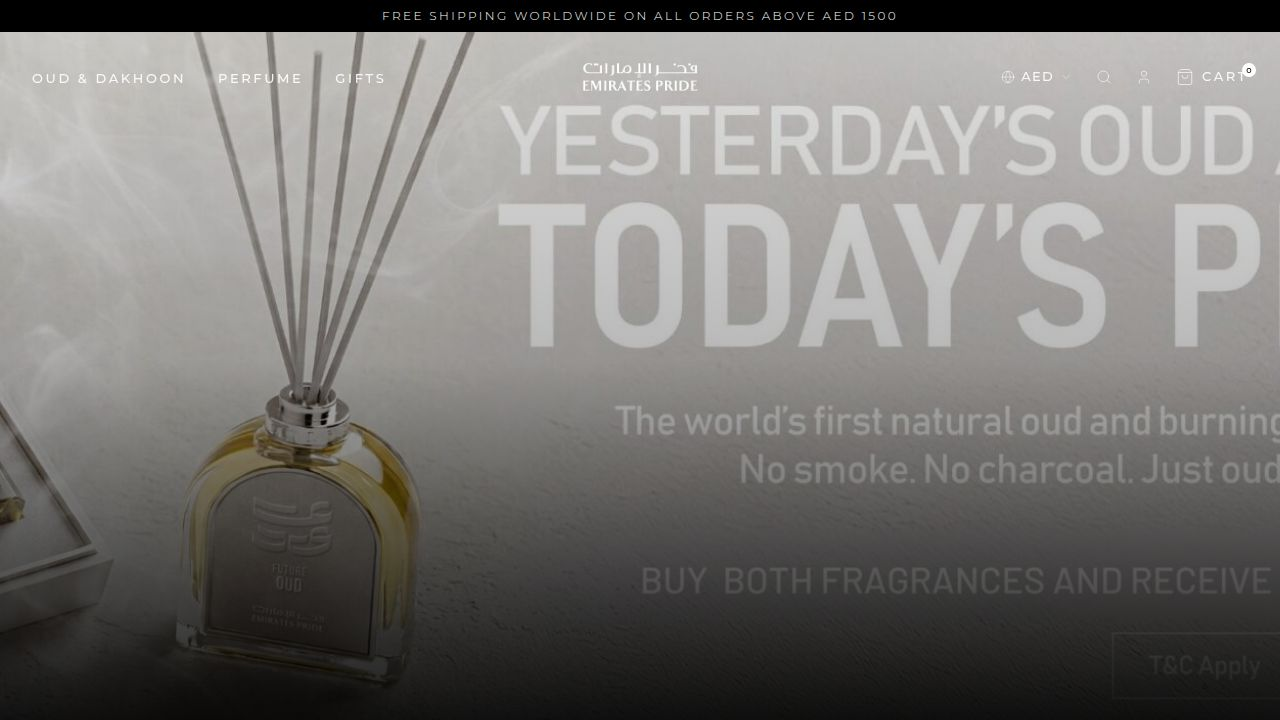
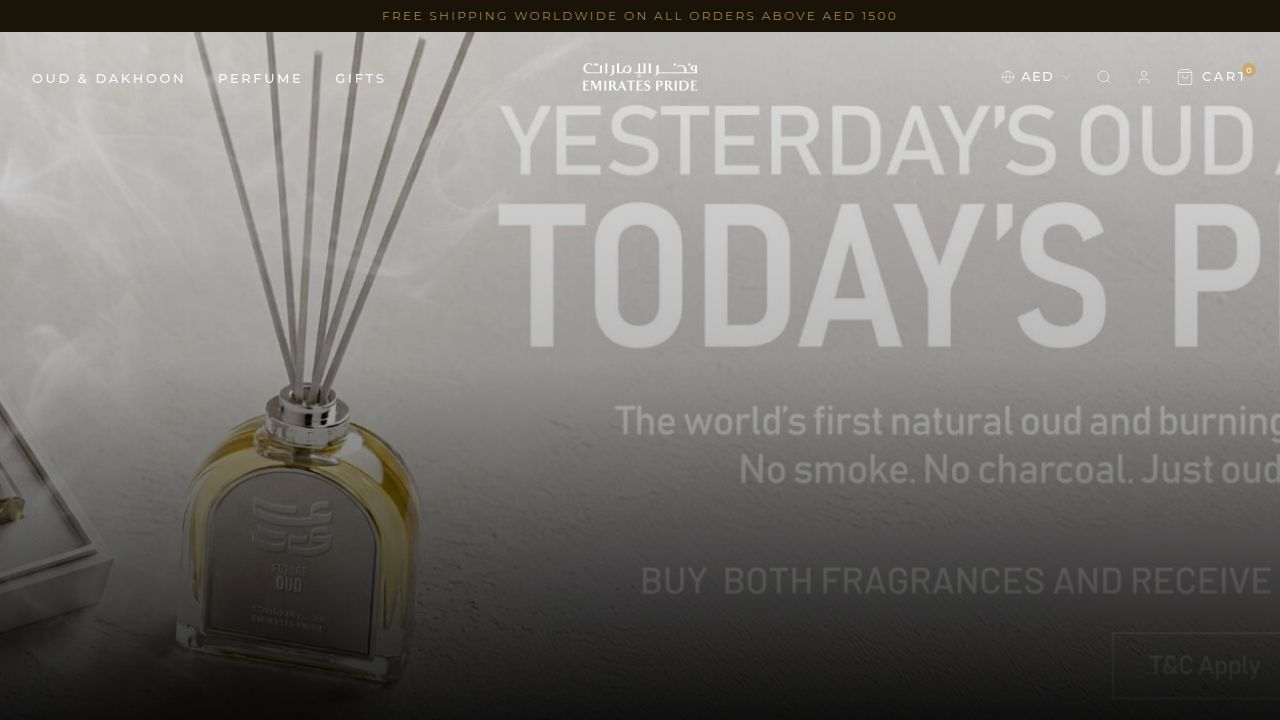
Improve website spacing and padding for a better user experience
Refactors various components and pages to implement a consistent and adaptive spacing and padding system, utilizing Tailwind CSS utility classes for responsive design across all breakpoints.

Replit-Commit-Author: Agent
Replit-Commit-Session-Id: e337e7fa-01bf-4b65-ac23-c47a7b0923ea
Replit-Commit-Checkpoint-Type: full_checkpoint
Replit-Commit-Event-Id: f3d3aa6d-13ac-416a-baf6-04ac2c54afa9
Replit-Commit-Screenshot-Url: https://storage.googleapis.com/screenshot-production-us-central1/232ab10a-71f6-4c69-b0e7-b32ffa81f37e/e337e7fa-01bf-4b65-ac23-c47a7b0923ea/bKBORlj
Replit-Helium-Checkpoint-Created: true

Changed region(s): [[0.0, 0.0, 1.0, 0.0611], [0.9688, 0.0917, 1.0, 0.1222]]

diff --git a/client/src/pages/Home.tsx b/client/src/pages/Home.tsx
@@ -121,7 +121,7 @@ export default function Home() {
       <Navbar />
 
       <main className="flex-1">
-        <section ref={heroRef} className="relative h-[85vh] md:h-screen w-full flex flex-col justify-end pb-16 md:pb-32 px-4 md:px-8 overflow-hidden bg-black">
+        <section ref={heroRef} className="relative h-[85vh] md:h-screen w-full flex flex-col justify-end pb-12 md:pb-24 lg:pb-32 px-5 md:px-10 lg:px-20 xl:px-28 overflow-hidden bg-black">
           <div className="absolute inset-0 w-full h-full">
             <img 
               src="https://emiratespride.com/wp-content/uploads/2026/02/Desktop-Banner-ENG-scaled.jpg" 
@@ -134,69 +134,70 @@ export default function Home() {
           
         </section>
 
-        <section ref={galleryRef} className="py-6 md:py-12 bg-[#fafafa] px-4 md:px-8 lg:px-16">
-          <div className="text-center mb-6 md:mb-10">
-            <h2 className="text-[9px] md:text-[10px] font-medium tracking-[0.3em] uppercase text-[#c9a96e] mb-2">Explore</h2>
-            <h3 className="text-2xl md:text-4xl font-serif">A World of Fragrance</h3>
+        <section ref={galleryRef} className="py-10 md:py-16 lg:py-24 bg-[#fafafa] px-5 md:px-10 lg:px-20 xl:px-28">
+          <div className="text-center mb-8 md:mb-14">
+            <h2 className="text-[9px] md:text-[10px] font-medium tracking-[0.3em] uppercase text-[#c9a96e] mb-3">Explore</h2>
+            <h3 className="text-2xl md:text-4xl lg:text-5xl font-serif">A World of Fragrance</h3>
           </div>
           
-          <div className="grid grid-cols-1 md:grid-cols-3 gap-4 md:gap-6">
+          <div className="grid grid-cols-1 md:grid-cols-3 gap-3 md:gap-4 lg:gap-6">
             <Link href="/collection">
-              <div className="gallery-item group relative aspect-[4/5] md:aspect-[3/4] overflow-hidden bg-muted cursor-pointer mb-4 md:mb-0">
+              <div className="gallery-item group relative aspect-[4/5] md:aspect-[3/4] overflow-hidden bg-muted cursor-pointer mb-3 md:mb-0">
                 <img src={categories[0].image} className="w-full h-full object-cover transition-transform duration-[2s] ease-out group-hover:scale-110" alt="Oud" />
                 <div className="absolute inset-0 bg-black/20 group-hover:bg-black/40 transition-colors duration-700"></div>
-                <div className="absolute bottom-6 md:bottom-8 left-6 md:left-8">
-                  <h3 className="text-white font-serif text-2xl md:text-3xl lg:text-4xl mb-2">{categories[0].name}</h3>
+                <div className="absolute bottom-5 md:bottom-8 lg:bottom-10 left-5 md:left-8 lg:left-10">
+                  <h3 className="text-white font-serif text-xl md:text-3xl lg:text-4xl mb-2">{categories[0].name}</h3>
                   <div className="w-0 h-[1px] bg-[#c9a96e] group-hover:w-full transition-all duration-700 ease-out"></div>
                 </div>
               </div>
             </Link>
             
             <Link href="/collection">
-              <div className="gallery-item group relative aspect-[4/5] md:aspect-[3/4] overflow-hidden bg-muted cursor-pointer md:translate-y-12 mb-4 md:mb-0">
+              <div className="gallery-item group relative aspect-[4/5] md:aspect-[3/4] overflow-hidden bg-muted cursor-pointer md:translate-y-8 lg:translate-y-14 mb-3 md:mb-0">
                 <img src={categories[4].image} className="w-full h-full object-cover transition-transform duration-[2s] ease-out group-hover:scale-110" alt="Gifts" />
                 <div className="absolute inset-0 bg-black/20 group-hover:bg-black/40 transition-colors duration-700"></div>
-                <div className="absolute bottom-6 md:bottom-8 left-6 md:left-8">
-                  <h3 className="text-white font-serif text-2xl md:text-3xl lg:text-4xl mb-2">{categories[4].name}</h3>
+                <div className="absolute bottom-5 md:bottom-8 lg:bottom-10 left-5 md:left-8 lg:left-10">
+                  <h3 className="text-white font-serif text-xl md:text-3xl lg:text-4xl mb-2">{categories[4].name}</h3>
                   <div className="w-0 h-[1px] bg-[#c9a96e] group-hover:w-full transition-all duration-700 ease-out"></div>
                 </div>
               </div>
             </Link>
             
             <Link href="/collection">
-              <div className="gallery-item group relative aspect-[4/5] md:aspect-[3/4] overflow-hidden bg-muted cursor-pointer md:translate-y-24">
+              <div className="gallery-item group relative aspect-[4/5] md:aspect-[3/4] overflow-hidden bg-muted cursor-pointer md:translate-y-16 lg:translate-y-28">
                 <img src={categories[1].image} className="w-full h-full object-cover transition-transform duration-[2s] ease-out group-hover:scale-110" alt="Oils" />
                 <div className="absolute inset-0 bg-black/20 group-hover:bg-black/40 transition-colors duration-700"></div>
-                <div className="absolute bottom-6 md:bottom-8 left-6 md:left-8">
-                  <h3 className="text-white font-serif text-2xl md:text-3xl lg:text-4xl mb-2">{categories[1].name}</h3>
+                <div className="absolute bottom-5 md:bottom-8 lg:bottom-10 left-5 md:left-8 lg:left-10">
+                  <h3 className="text-white font-serif text-xl md:text-3xl lg:text-4xl mb-2">{categories[1].name}</h3>
                   <div className="w-0 h-[1px] bg-[#c9a96e] group-hover:w-full transition-all duration-700 ease-out"></div>
                 </div>
               </div>
             </Link>
           </div>
+          <div className="hidden md:block h-8 lg:h-16"></div>
         </section>
 
         <section ref={pinnedSectionRef} className="relative w-full bg-[#fcfcfc] flex flex-col md:flex-row">
-          <div className="w-full md:w-1/2 md:h-screen md:sticky top-0 pinned-content flex flex-col justify-center items-center md:items-start text-center md:text-left p-8 md:p-16 lg:p-24 z-10 relative bg-cover bg-center" style={{ backgroundImage: "url('https://emiratespride.com/wp-content/uploads/2026/01/Mostakbal-Lifestyle-scaled-1-1200x1490.webp')" }}>
+          <div className="w-full md:w-1/2 md:h-screen md:sticky top-0 pinned-content flex flex-col justify-center items-center md:items-start text-center md:text-left p-8 md:p-14 lg:p-20 xl:p-28 z-10 relative bg-cover bg-center" style={{ backgroundImage: "url('https://emiratespride.com/wp-content/uploads/2026/01/Mostakbal-Lifestyle-scaled-1-1200x1490.webp')" }}>
             <div className="absolute inset-0 bg-black/50"></div>
-            <span className="relative z-10 text-[9px] md:text-[10px] font-medium tracking-[0.3em] uppercase text-[#c9a96e] mb-4 md:mb-6 md:border-l md:border-[#c9a96e]/50 md:pl-4">Signature Blend</span>
-            <h2 className="relative z-10 text-3xl md:text-5xl lg:text-6xl font-serif mb-4 md:mb-6 leading-tight text-white">{featureProduct2.name}</h2>
-            <p className="relative z-10 text-white/70 text-sm leading-relaxed mb-8 md:mb-10 max-w-md font-light">
+            <span className="relative z-10 text-[9px] md:text-[10px] font-medium tracking-[0.3em] uppercase text-[#c9a96e] mb-3 md:mb-5 lg:mb-7 md:border-l md:border-[#c9a96e]/50 md:pl-4">Signature Blend</span>
+            <h2 className="relative z-10 text-3xl md:text-5xl lg:text-6xl xl:text-7xl font-serif mb-3 md:mb-5 lg:mb-7 leading-tight text-white">{featureProduct2.name}</h2>
+            <p className="relative z-10 text-white/70 text-xs md:text-sm lg:text-base leading-relaxed mb-6 md:mb-8 lg:mb-12 max-w-md font-light">
               A captivating journey into darkness. Discover a scent tailored to your most elegant moments, blending the finest leather accords with mysterious depths.
             </p>
             <Link href={`/product/${featureProduct2.id}`}>
-              <span className="relative z-10 inline-block bg-[#c9a96e] text-white px-8 py-3.5 md:py-4 text-[9px] md:text-[10px] font-medium tracking-[0.2em] uppercase hover:bg-[#b8954f] transition-colors cursor-pointer">
+              <span className="relative z-10 inline-block bg-[#c9a96e] text-white px-6 md:px-8 lg:px-10 py-3 md:py-3.5 lg:py-4 text-[9px] md:text-[10px] font-medium tracking-[0.2em] uppercase hover:bg-[#b8954f] transition-colors cursor-pointer">
                 Discover The Scent
               </span>
             </Link>
           </div>
           
           <div className="w-full md:w-1/2 flex flex-col scrolling-images relative bg-white">
-            <div className="grid grid-cols-2 gap-3 md:gap-6 p-4 md:p-8">
+            <div className="grid grid-cols-2 gap-3 md:gap-4 lg:gap-6 p-4 md:p-6 lg:p-10">
               {products.slice(0, 4).map((product) => (
                 <div key={product.id} className="group flex flex-col cursor-pointer" data-testid={`card-scroll-product-${product.id}`}>
                   <Link href={`/product/${product.id}`}>
-                    <div className="relative aspect-[3/5] mb-3 overflow-hidden bg-[#f5f5f5]">
+                    <div className="relative aspect-[3/5] mb-2 md:mb-3 overflow-hidden bg-[#f5f5f5]">
                       <img 
                         src={product.image} 
                         alt={product.name} 
@@ -212,19 +213,19 @@ export default function Home() {
                   </Link>
                   <div className="flex flex-col items-center text-center px-1">
                     <Link href={`/product/${product.id}`}>
-                      <span className="text-sm md:text-base font-serif mb-1 text-black hover:text-black/60 transition-colors cursor-pointer">{product.name}</span>
+                      <span className="text-xs md:text-sm lg:text-base font-serif mb-1 text-black hover:text-black/60 transition-colors cursor-pointer">{product.name}</span>
                     </Link>
-                    <span className="text-[7px] md:text-[8px] tracking-[0.2em] uppercase text-black/40 mb-1">{product.collection}</span>
-                    <p className="text-[10px] md:text-xs font-medium text-black">{product.currency} {product.price}</p>
+                    <span className="text-[6px] md:text-[7px] lg:text-[8px] tracking-[0.2em] uppercase text-black/40 mb-1">{product.collection}</span>
+                    <p className="text-[9px] md:text-[10px] lg:text-xs font-medium text-black">{product.currency} {product.price}</p>
                   </div>
                 </div>
               ))}
             </div>
-            <div className="grid grid-cols-2 gap-3 md:gap-6 p-4 md:p-8 pt-0 md:pt-0">
+            <div className="grid grid-cols-2 gap-3 md:gap-4 lg:gap-6 p-4 md:p-6 lg:p-10 pt-0 md:pt-0 lg:pt-0">
               {products.slice(3, 7).map((product) => (
                 <div key={product.id} className="group flex flex-col cursor-pointer" data-testid={`card-scroll-product-${product.id}`}>
                   <Link href={`/product/${product.id}`}>
-                    <div className="relative aspect-[3/5] mb-3 overflow-hidden bg-[#f5f5f5]">
+                    <div className="relative aspect-[3/5] mb-2 md:mb-3 overflow-hidden bg-[#f5f5f5]">
                       <img 
                         src={product.image} 
                         alt={product.name} 
@@ -240,10 +241,10 @@ export default function Home() {
                   </Link>
                   <div className="flex flex-col items-center text-center px-1">
                     <Link href={`/product/${product.id}`}>
-                      <span className="text-sm md:text-base font-serif mb-1 text-black hover:text-black/60 transition-colors cursor-pointer">{product.name}</span>
+                      <span className="text-xs md:text-sm lg:text-base font-serif mb-1 text-black hover:text-black/60 transition-colors cursor-pointer">{product.name}</span>
                     </Link>
-                    <span className="text-[7px] md:text-[8px] tracking-[0.2em] uppercase text-black/40 mb-1">{product.collection}</span>
-                    <p className="text-[10px] md:text-xs font-medium text-black">{product.currency} {product.price}</p>
+                    <span className="text-[6px] md:text-[7px] lg:text-[8px] tracking-[0.2em] uppercase text-black/40 mb-1">{product.collection}</span>
+                    <p className="text-[9px] md:text-[10px] lg:text-xs font-medium text-black">{product.currency} {product.price}</p>
                   </div>
                 </div>
               ))}
@@ -251,11 +252,11 @@ export default function Home() {
           </div>
         </section>
 
-        <section className="py-6 md:py-10 px-4 md:px-8 lg:px-16 bg-white overflow-hidden">
-          <div className="flex flex-col md:flex-row justify-between items-center md:items-end mb-4 md:mb-8 border-b border-black/10 pb-3 md:pb-5 text-center md:text-left">
+        <section className="py-10 md:py-16 lg:py-24 px-5 md:px-10 lg:px-20 xl:px-28 bg-white overflow-hidden">
+          <div className="flex flex-col md:flex-row justify-between items-center md:items-end mb-6 md:mb-10 lg:mb-14 border-b border-black/10 pb-4 md:pb-6 text-center md:text-left">
             <div>
               <h2 className="text-[9px] md:text-[10px] font-medium tracking-[0.3em] uppercase text-[#c9a96e] mb-2 md:mb-3">Masterpieces</h2>
-              <h3 className="text-2xl md:text-4xl font-serif text-black">New & Trending</h3>
+              <h3 className="text-2xl md:text-4xl lg:text-5xl font-serif text-black">New & Trending</h3>
             </div>
             <Link href="/collection">
               <span className="hidden md:inline-block text-[10px] font-medium tracking-[0.2em] uppercase hover:text-black/60 transition-colors cursor-pointer luxury-underline pb-1">
@@ -264,7 +265,7 @@ export default function Home() {
             </Link>
           </div>
 
-          <div className="grid grid-cols-2 md:grid-cols-4 gap-x-2 md:gap-x-4 gap-y-6 md:gap-y-10">
+          <div className="grid grid-cols-2 md:grid-cols-4 gap-x-3 md:gap-x-4 lg:gap-x-6 gap-y-6 md:gap-y-8 lg:gap-y-12">
             {newArrivals.map((product) => (
               <CreativeProductCard key={product.id} product={product} />
             ))}
@@ -279,7 +280,7 @@ export default function Home() {
           </div>
         </section>
 
-        <section ref={bloomBannerRef} className="relative w-full h-[50vh] md:h-[70vh] overflow-hidden">
+        <section ref={bloomBannerRef} className="relative w-full h-[40vh] md:h-[60vh] lg:h-[75vh] overflow-hidden">
           <img 
             src="https://emiratespride.com/ae/wp-content/uploads/sites/10/2025/10/BLOOM-AR-scaled.webp" 
             alt="Bloom Collection" 
@@ -288,7 +289,7 @@ export default function Home() {
           <div className="absolute inset-0 bg-black/20"></div>
         </section>
 
-        <section ref={brandRef} className="relative py-16 md:py-28 px-6 md:px-12 lg:px-20 bg-[#1a1308] overflow-hidden">
+        <section ref={brandRef} className="relative py-14 md:py-24 lg:py-32 px-5 md:px-10 lg:px-20 xl:px-28 bg-[#1a1308] overflow-hidden">
           <div className="absolute inset-0 opacity-[0.03]" style={{ backgroundImage: "url('https://emiratespride.com/wp-content/uploads/2026/01/Mostakbal-Lifestyle-scaled-1-1200x1490.webp')", backgroundSize: "cover", backgroundPosition: "center" }}></div>
           <div className="relative z-10 flex flex-col lg:flex-row items-center gap-10 md:gap-16 lg:gap-24 max-w-7xl mx-auto">
             <div className="flex-1 text-center lg:text-left">
@@ -301,34 +302,34 @@ export default function Home() {
                 We source the finest ingredients globally to craft scents that evoke deep emotions and lasting memories.
               </p>
             </div>
-            <div className="flex-shrink-0 grid grid-cols-2 gap-4 md:gap-6 w-full lg:w-auto lg:max-w-md">
-              <div className="group flex flex-col items-center text-center p-4 md:p-6 border border-[#c9a96e]/15 hover:border-[#c9a96e]/40 transition-all duration-500 cursor-pointer">
-                <div className="w-10 h-10 md:w-12 md:h-12 rounded-full border border-[#c9a96e]/30 flex items-center justify-center text-[#c9a96e]/80 mb-3 md:mb-4 group-hover:bg-[#c9a96e] group-hover:text-white transition-colors duration-500">
-                  <Pencil strokeWidth={1} className="w-4 h-4 md:w-5 md:h-5" />
+            <div className="flex-shrink-0 grid grid-cols-2 gap-3 md:gap-4 lg:gap-6 w-full lg:w-auto lg:max-w-md">
+              <div className="group flex flex-col items-center text-center p-4 md:p-5 lg:p-7 border border-[#c9a96e]/15 hover:border-[#c9a96e]/40 transition-all duration-500 cursor-pointer">
+                <div className="w-9 h-9 md:w-11 md:h-11 lg:w-12 lg:h-12 rounded-full border border-[#c9a96e]/30 flex items-center justify-center text-[#c9a96e]/80 mb-2.5 md:mb-3.5 lg:mb-4 group-hover:bg-[#c9a96e] group-hover:text-white transition-colors duration-500">
+                  <Pencil strokeWidth={1} className="w-3.5 h-3.5 md:w-4 md:h-4 lg:w-5 lg:h-5" />
                 </div>
-                <h3 className="text-xs md:text-sm font-serif mb-1 text-white">Personalization</h3>
-                <p className="text-[9px] md:text-[10px] text-white/40 font-light leading-relaxed hidden sm:block">Custom engraving</p>
+                <h3 className="text-[10px] md:text-xs lg:text-sm font-serif mb-1 text-white">Personalization</h3>
+                <p className="text-[8px] md:text-[9px] lg:text-[10px] text-white/40 font-light leading-relaxed hidden sm:block">Custom engraving</p>
               </div>
-              <div className="group flex flex-col items-center text-center p-4 md:p-6 border border-[#c9a96e]/15 hover:border-[#c9a96e]/40 transition-all duration-500 cursor-pointer">
-                <div className="w-10 h-10 md:w-12 md:h-12 rounded-full border border-[#c9a96e]/30 flex items-center justify-center text-[#c9a96e]/80 mb-3 md:mb-4 group-hover:bg-[#c9a96e] group-hover:text-white transition-colors duration-500">
-                  <Gift strokeWidth={1} className="w-4 h-4 md:w-5 md:h-5" />
+              <div className="group flex flex-col items-center text-center p-4 md:p-5 lg:p-7 border border-[#c9a96e]/15 hover:border-[#c9a96e]/40 transition-all duration-500 cursor-pointer">
+                <div className="w-9 h-9 md:w-11 md:h-11 lg:w-12 lg:h-12 rounded-full border border-[#c9a96e]/30 flex items-center justify-center text-[#c9a96e]/80 mb-2.5 md:mb-3.5 lg:mb-4 group-hover:bg-[#c9a96e] group-hover:text-white transition-colors duration-500">
+                  <Gift strokeWidth={1} className="w-3.5 h-3.5 md:w-4 md:h-4 lg:w-5 lg:h-5" />
                 </div>
-                <h3 className="text-xs md:text-sm font-serif mb-1 text-white">Gift Wrapping</h3>
-                <p className="text-[9px] md:text-[10px] text-white/40 font-light leading-relaxed hidden sm:block">Luxurious finishing</p>
+                <h3 className="text-[10px] md:text-xs lg:text-sm font-serif mb-1 text-white">Gift Wrapping</h3>
+                <p className="text-[8px] md:text-[9px] lg:text-[10px] text-white/40 font-light leading-relaxed hidden sm:block">Luxurious finishing</p>
               </div>
-              <div className="group flex flex-col items-center text-center p-4 md:p-6 border border-[#c9a96e]/15 hover:border-[#c9a96e]/40 transition-all duration-500 cursor-pointer">
-                <div className="w-10 h-10 md:w-12 md:h-12 rounded-full border border-[#c9a96e]/30 flex items-center justify-center text-[#c9a96e]/80 mb-3 md:mb-4 group-hover:bg-[#c9a96e] group-hover:text-white transition-colors duration-500">
-                  <Truck strokeWidth={1} className="w-4 h-4 md:w-5 md:h-5" />
+              <div className="group flex flex-col items-center text-center p-4 md:p-5 lg:p-7 border border-[#c9a96e]/15 hover:border-[#c9a96e]/40 transition-all duration-500 cursor-pointer">
+                <div className="w-9 h-9 md:w-11 md:h-11 lg:w-12 lg:h-12 rounded-full border border-[#c9a96e]/30 flex items-center justify-center text-[#c9a96e]/80 mb-2.5 md:mb-3.5 lg:mb-4 group-hover:bg-[#c9a96e] group-hover:text-white transition-colors duration-500">
+                  <Truck strokeWidth={1} className="w-3.5 h-3.5 md:w-4 md:h-4 lg:w-5 lg:h-5" />
                 </div>
-                <h3 className="text-xs md:text-sm font-serif mb-1 text-white">Global Delivery</h3>
-                <p className="text-[9px] md:text-[10px] text-white/40 font-light leading-relaxed hidden sm:block">Free over AED 1500</p>
+                <h3 className="text-[10px] md:text-xs lg:text-sm font-serif mb-1 text-white">Global Delivery</h3>
+                <p className="text-[8px] md:text-[9px] lg:text-[10px] text-white/40 font-light leading-relaxed hidden sm:block">Free over AED 1500</p>
               </div>
-              <div className="group flex flex-col items-center text-center p-4 md:p-6 border border-[#c9a96e]/15 hover:border-[#c9a96e]/40 transition-all duration-500 cursor-pointer">
-                <div className="w-10 h-10 md:w-12 md:h-12 rounded-full border border-[#c9a96e]/30 flex items-center justify-center text-[#c9a96e]/80 mb-3 md:mb-4 group-hover:bg-[#c9a96e] group-hover:text-white transition-colors duration-500">
-                  <MailOpen strokeWidth={1} className="w-4 h-4 md:w-5 md:h-5" />
+              <div className="group flex flex-col items-center text-center p-4 md:p-5 lg:p-7 border border-[#c9a96e]/15 hover:border-[#c9a96e]/40 transition-all duration-500 cursor-pointer">
+                <div className="w-9 h-9 md:w-11 md:h-11 lg:w-12 lg:h-12 rounded-full border border-[#c9a96e]/30 flex items-center justify-center text-[#c9a96e]/80 mb-2.5 md:mb-3.5 lg:mb-4 group-hover:bg-[#c9a96e] group-hover:text-white transition-colors duration-500">
+                  <MailOpen strokeWidth={1} className="w-3.5 h-3.5 md:w-4 md:h-4 lg:w-5 lg:h-5" />
                 </div>
-                <h3 className="text-xs md:text-sm font-serif mb-1 text-white">Free Samples</h3>
-                <p className="text-[9px] md:text-[10px] text-white/40 font-light leading-relaxed hidden sm:block">With every order</p>
+                <h3 className="text-[10px] md:text-xs lg:text-sm font-serif mb-1 text-white">Free Samples</h3>
+                <p className="text-[8px] md:text-[9px] lg:text-[10px] text-white/40 font-light leading-relaxed hidden sm:block">With every order</p>
               </div>
             </div>
           </div>
@@ -344,7 +345,7 @@ function CreativeProductCard({ product }: { product: any }) {
   return (
     <div className="group flex flex-col w-full cursor-pointer" data-testid={`card-product-${product.id}`}>
       <Link href={`/product/${product.id}`}>
-        <div className="block relative aspect-[3/5] mb-3 md:mb-4 overflow-hidden bg-[#f5f5f5]">
+        <div className="block relative aspect-[3/5] mb-2 md:mb-3 lg:mb-4 overflow-hidden bg-[#f5f5f5]">
           <img 
             src={product.image} 
             alt={product.name} 
@@ -371,14 +372,14 @@ function CreativeProductCard({ product }: { product: any }) {
       
       <div className="flex flex-col items-center px-1 text-center">
         <Link href={`/product/${product.id}`}>
-          <span className="text-sm md:text-lg font-serif mb-1 text-black hover:text-black/60 transition-colors cursor-pointer" data-testid={`text-product-name-${product.id}`}>
+          <span className="text-xs md:text-base lg:text-lg font-serif mb-1 text-black hover:text-black/60 transition-colors cursor-pointer" data-testid={`text-product-name-${product.id}`}>
             {product.name}
           </span>
         </Link>
-        <span className="text-[7px] md:text-[8px] tracking-[0.2em] uppercase text-black/40 mb-1.5 line-clamp-1">
+        <span className="text-[6px] md:text-[7px] lg:text-[8px] tracking-[0.2em] uppercase text-black/40 mb-1 lg:mb-1.5 line-clamp-1">
           {product.collection}
         </span>
-        <p className="text-[10px] md:text-xs font-medium text-black" data-testid={`text-price-${product.id}`}>
+        <p className="text-[9px] md:text-[10px] lg:text-xs font-medium text-black" data-testid={`text-price-${product.id}`}>
           {product.currency} {product.price}
         </p>
       </div>

diff --git a/client/src/pages/Collection.tsx b/client/src/pages/Collection.tsx
@@ -19,15 +19,15 @@ export default function Collection() {
       <Navbar />
 
       <main className="flex-1 pt-24">
-        <header className="bg-white py-16 md:py-24 px-4 text-center border-b border-black/5">
-          <h1 className="text-4xl md:text-6xl font-serif mb-6 uppercase tracking-wider text-black animate-in fade-in slide-in-from-bottom-4" data-testid="text-collection-title">Our Collections</h1>
-          <p className="text-black/60 max-w-2xl mx-auto text-sm md:text-base font-light animate-in fade-in slide-in-from-bottom-6 delay-150">
+        <header className="bg-white py-12 md:py-20 lg:py-28 px-5 md:px-10 lg:px-20 xl:px-28 text-center border-b border-black/5">
+          <h1 className="text-3xl md:text-5xl lg:text-6xl font-serif mb-4 md:mb-6 uppercase tracking-wider text-black animate-in fade-in slide-in-from-bottom-4" data-testid="text-collection-title">Our Collections</h1>
+          <p className="text-black/60 max-w-2xl mx-auto text-xs md:text-sm lg:text-base font-light animate-in fade-in slide-in-from-bottom-6 delay-150">
             Explore our curated selection of masterful fragrances, crafted with the world's most precious ingredients.
           </p>
         </header>
 
-        <section className="container mx-auto px-4 md:px-8 py-12 md:py-16">
-          <div className="flex flex-col md:flex-row justify-between items-center mb-12 gap-6 pb-6 border-b border-black/5">
+        <section className="px-5 md:px-10 lg:px-20 xl:px-28 py-10 md:py-14 lg:py-20">
+          <div className="flex flex-col md:flex-row justify-between items-center mb-8 md:mb-12 gap-6 pb-6 border-b border-black/5">
             <div className="hidden md:flex items-center gap-10 overflow-x-auto w-full md:w-auto pb-4 md:pb-0">
               {CATEGORIES.map(category => (
                 <button
@@ -56,7 +56,7 @@ export default function Collection() {
             </div>
           </div>
 
-          <div className="grid grid-cols-2 lg:grid-cols-4 gap-x-4 md:gap-x-6 gap-y-12 md:gap-y-20">
+          <div className="grid grid-cols-2 lg:grid-cols-4 gap-x-3 md:gap-x-4 lg:gap-x-6 gap-y-8 md:gap-y-12 lg:gap-y-16">
             {filteredProducts.map((product, index) => (
               <div 
                 key={product.id} 
@@ -65,7 +65,7 @@ export default function Collection() {
                 data-testid={`card-product-${product.id}`}
               >
                 <Link href={`/product/${product.id}`}>
-                  <div className="block relative aspect-[3/5] mb-4 overflow-hidden bg-[#f8f8f8]">
+                  <div className="block relative aspect-[3/5] mb-2 md:mb-3 lg:mb-4 overflow-hidden bg-[#f8f8f8]">
                     <img 
                       src={product.image} 
                       alt={product.name} 
@@ -92,14 +92,14 @@ export default function Collection() {
                 
                 <div className="flex flex-col items-center px-1 text-center">
                   <Link href={`/product/${product.id}`}>
-                    <span className="text-base md:text-xl font-serif mb-1 text-black hover:text-black/60 transition-colors cursor-pointer" data-testid={`text-product-name-${product.id}`}>
+                    <span className="text-xs md:text-base lg:text-lg font-serif mb-1 text-black hover:text-black/60 transition-colors cursor-pointer" data-testid={`text-product-name-${product.id}`}>
                       {product.name}
                     </span>
                   </Link>
-                  <span className="text-[8px] md:text-[9px] tracking-[0.2em] uppercase text-black/40 mb-2">
+                  <span className="text-[6px] md:text-[7px] lg:text-[8px] tracking-[0.2em] uppercase text-black/40 mb-1 lg:mb-2">
                     {product.collection}
                   </span>
-                  <p className="text-xs font-medium text-black" data-testid={`text-price-${product.id}`}>
+                  <p className="text-[9px] md:text-[10px] lg:text-xs font-medium text-black" data-testid={`text-price-${product.id}`}>
                     {product.currency} {product.price}
                   </p>
                 </div>

diff --git a/client/src/components/layout/Footer.tsx b/client/src/components/layout/Footer.tsx
@@ -2,12 +2,12 @@ import { Facebook, Instagram, Twitter, Youtube, ArrowRight } from "lucide-react"
 
 export default function Footer() {
   return (
-    <footer className="bg-[#1a1308] text-white pt-16 md:pt-24 pb-6 overflow-hidden relative border-t border-[#c9a96e]/20 flex flex-col">
-      <div className="container mx-auto px-4 md:px-8 z-10 flex-1 flex flex-col">
-        <div className="grid grid-cols-1 sm:grid-cols-2 md:grid-cols-12 gap-10 md:gap-8 mb-16 md:mb-24">
+    <footer className="bg-[#1a1308] text-white pt-12 md:pt-20 lg:pt-28 pb-6 md:pb-8 overflow-hidden relative border-t border-[#c9a96e]/20 flex flex-col">
+      <div className="px-5 md:px-10 lg:px-20 xl:px-28 z-10 flex-1 flex flex-col">
+        <div className="grid grid-cols-1 sm:grid-cols-2 md:grid-cols-12 gap-8 md:gap-6 lg:gap-10 mb-12 md:mb-20 lg:mb-28">
           
           {/* Brand Col */}
-          <div className="sm:col-span-2 md:col-span-4 lg:col-span-5 flex flex-col gap-6 md:pr-12">
+          <div className="sm:col-span-2 md:col-span-4 lg:col-span-5 flex flex-col gap-5 md:gap-6 md:pr-8 lg:pr-12">
             <img 
               src="https://emiratespride.com/wp-content/uploads/2026/01/logo-epp.png" 
               alt="Emirates Pride" 

diff --git a/client/src/pages/Product.tsx b/client/src/pages/Product.tsx
@@ -57,7 +57,7 @@ export default function Product() {
         <div className="flex flex-col md:flex-row w-full max-w-[1800px] mx-auto min-h-[calc(100vh-70px)]">
           
           <div ref={imageColRef} className="w-full md:w-1/2 md:h-[calc(100vh-70px)] bg-[#f5f5f5] flex flex-col overflow-hidden relative">
-            <div className="w-full h-full relative flex items-center justify-center p-8 md:p-16">
+            <div className="w-full h-full relative flex items-center justify-center p-6 md:p-12 lg:p-16 xl:p-20">
               <img 
                 src={mainImage || product.image} 
                 alt={product.name} 
@@ -90,7 +90,7 @@ export default function Product() {
           </div>
 
           <div className="w-full md:w-1/2 flex flex-col bg-white">
-            <div ref={detailsColRef} className="p-6 md:p-12 lg:p-20 max-w-[650px] mx-auto w-full">
+            <div ref={detailsColRef} className="p-5 md:p-10 lg:p-16 xl:p-20 max-w-[650px] mx-auto w-full">
               
               <div className="mb-10">
                 <span className="text-[9px] md:text-[10px] tracking-[0.3em] uppercase text-[#c9a96e] mb-4 block" data-testid="text-product-collection">

diff --git a/client/src/components/layout/Navbar.tsx b/client/src/components/layout/Navbar.tsx
@@ -47,12 +47,12 @@ export default function Navbar() {
         <div className={`transition-all duration-500 overflow-hidden hidden md:block ${
           isScrolled ? "h-0 opacity-0" : "h-[32px] opacity-100 bg-[#1a1308] text-[#c9a96e]"
         }`}>
-          <div className="container mx-auto px-4 h-full flex items-center justify-center text-[12px] tracking-[0.2em] uppercase font-light">
+          <div className="px-5 md:px-10 lg:px-20 xl:px-28 h-full flex items-center justify-center text-[12px] tracking-[0.2em] uppercase font-light">
             Free Shipping Worldwide on all orders above AED 1500
           </div>
         </div>
         
-        <div className="container mx-auto px-4 md:px-8 relative text-[18px] font-medium pl-[0px] pr-[0px]">
+        <div className="px-5 md:px-10 lg:px-20 xl:px-28 relative text-[18px] font-medium">
           <div className={`flex items-center justify-between transition-all duration-500 ${isScrolled ? "h-[60px] md:h-[70px]" : "h-[60px] md:h-[90px]"}`}>
             
             {/* Mobile Menu Button */}
